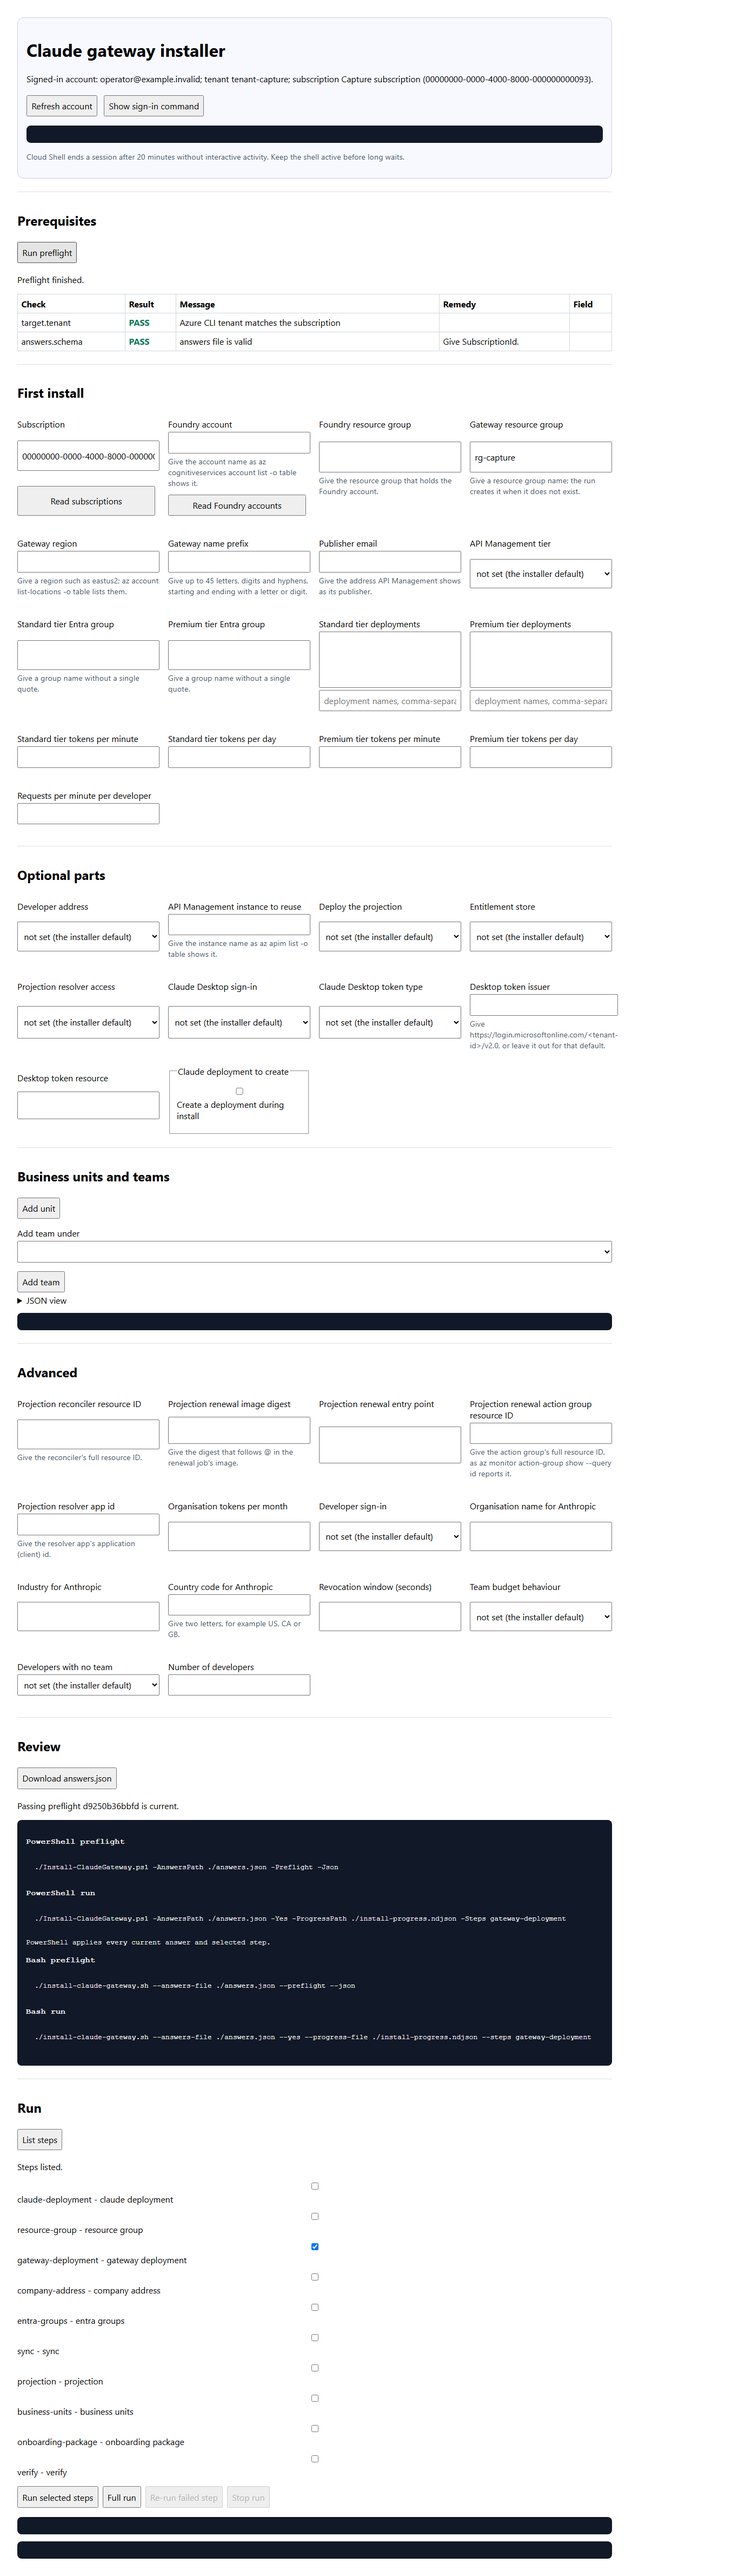
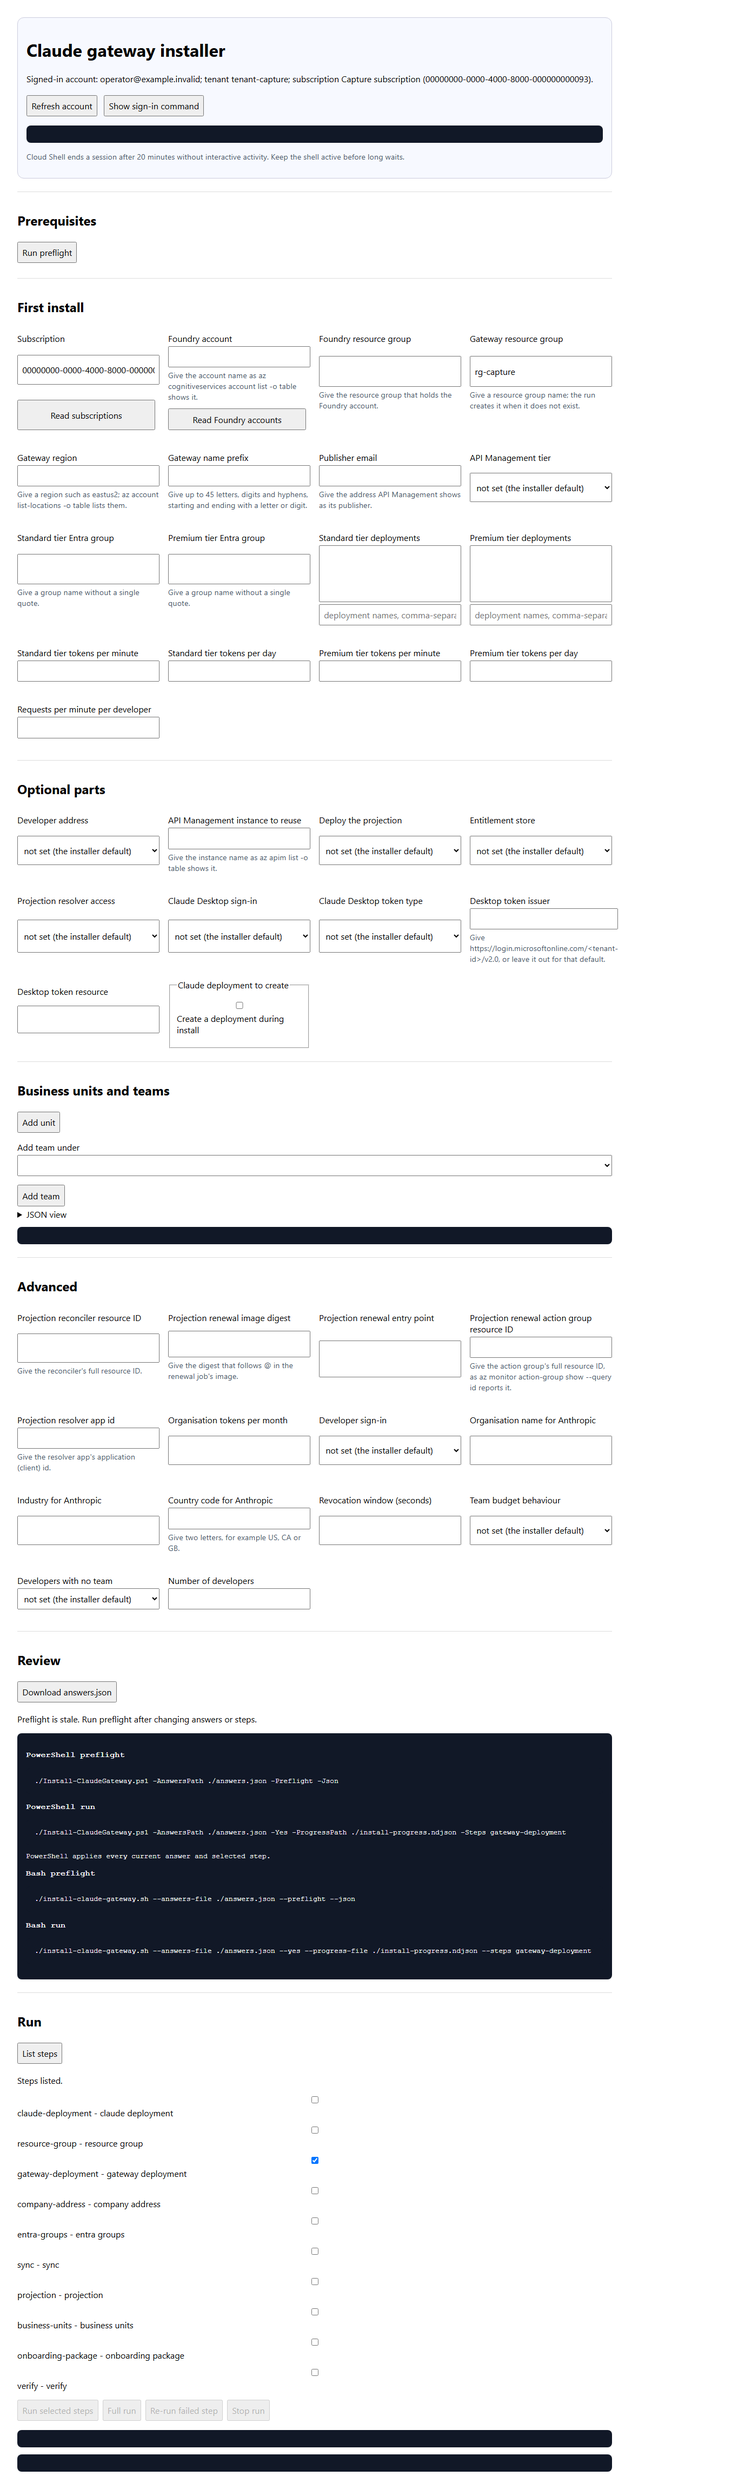
fix(p93): capture distinct coherent installer screenshots
The overview and preflight screenshots were identical and the signed-in tenant row did not use the real preflight wording. The capture now records overview before preflight, asserts unique PNG hashes and tenant coherence, and the stub emits the real signed-in target.tenant message shape.

Copilot-Session: 82d776f3-e908-44ed-80ff-1eb8b6c2fb34

diff --git a/docs/status/P93.md b/docs/status/P93.md
@@ -1220,3 +1220,29 @@ Named G4-5 tests:
 
 - `U1 fix Stop run is disabled after the run ends even when the stop response arrives after the summary`
 - `U1 fix run-starting buttons are disabled while a run is active`
+### Lead round 1 G4-6 coherent screenshot recapture, 2026-10-05
+
+The installer UI capture now writes the overview image before preflight, after answers are filled,
+steps are listed and one step is selected. The preflight and run captures follow after the preflight
+and selected run respectively. The capture asserts that no two PNGs have the same SHA-256 hash and
+that the signed-in banner does not contradict the `target.tenant` row. The stub's signed-in tenant
+message now uses the real preflight wording, `signed in as <user> in tenant <tenant>`.
+
+Targeted validation:
+
+```powershell
+$env:AZURE_CONFIG_DIR = '<isolated Azure CLI profile>'
+$env:CI = '1'
+$env:FORCE_COLOR = '0'
+node .\guide\capture-installer-ui.mjs
+pwsh -NoProfile -File .\tests\Test-Screenshots.ps1
+```
+
+Result: capture completed; Test-Screenshots passed with 182 images, 16 declared captures and 261
+referenced images.
+
+PNG hashes and inspection:
+
[3 lines of base64/hex data omitted]
